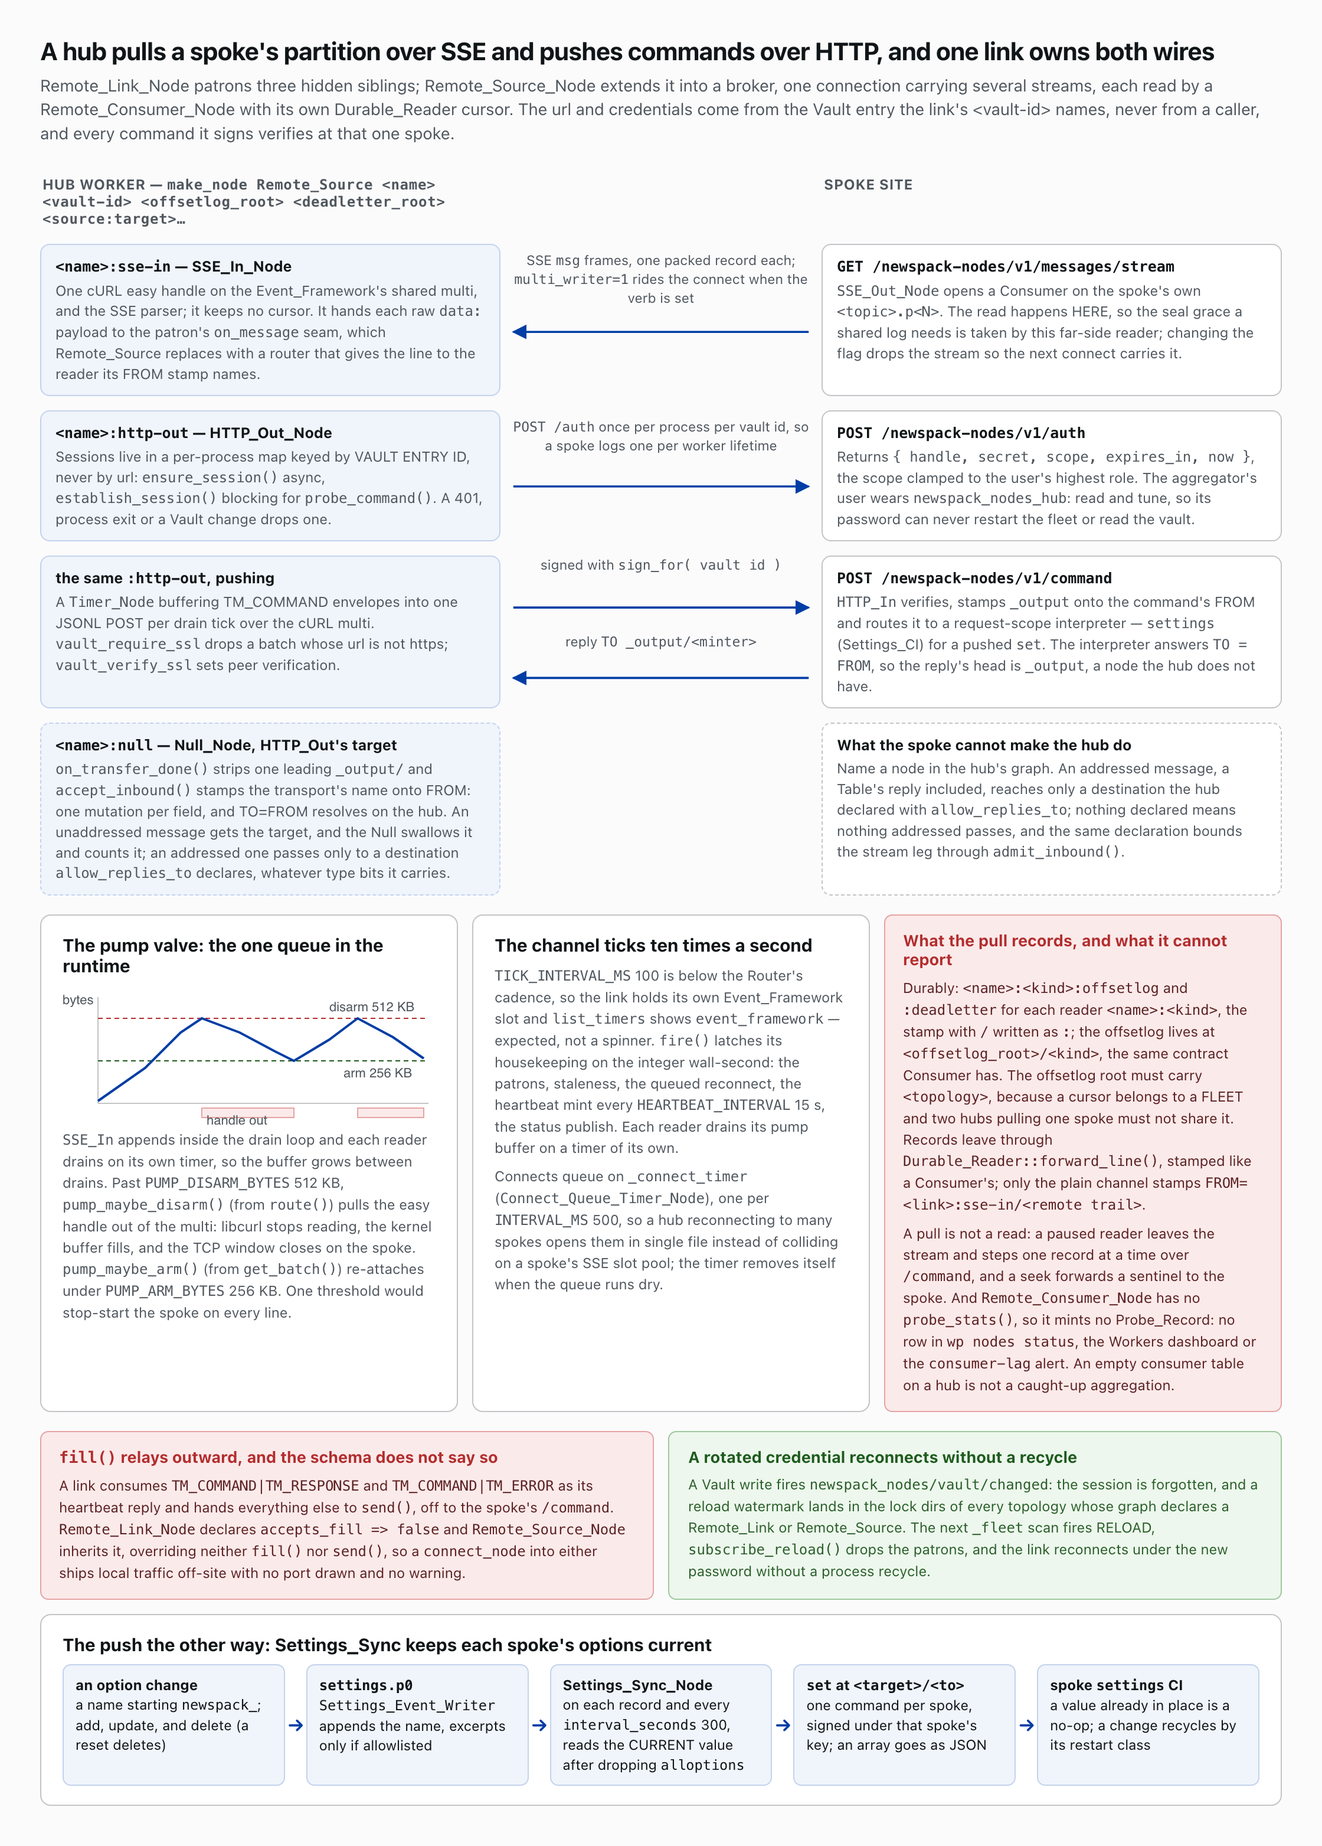
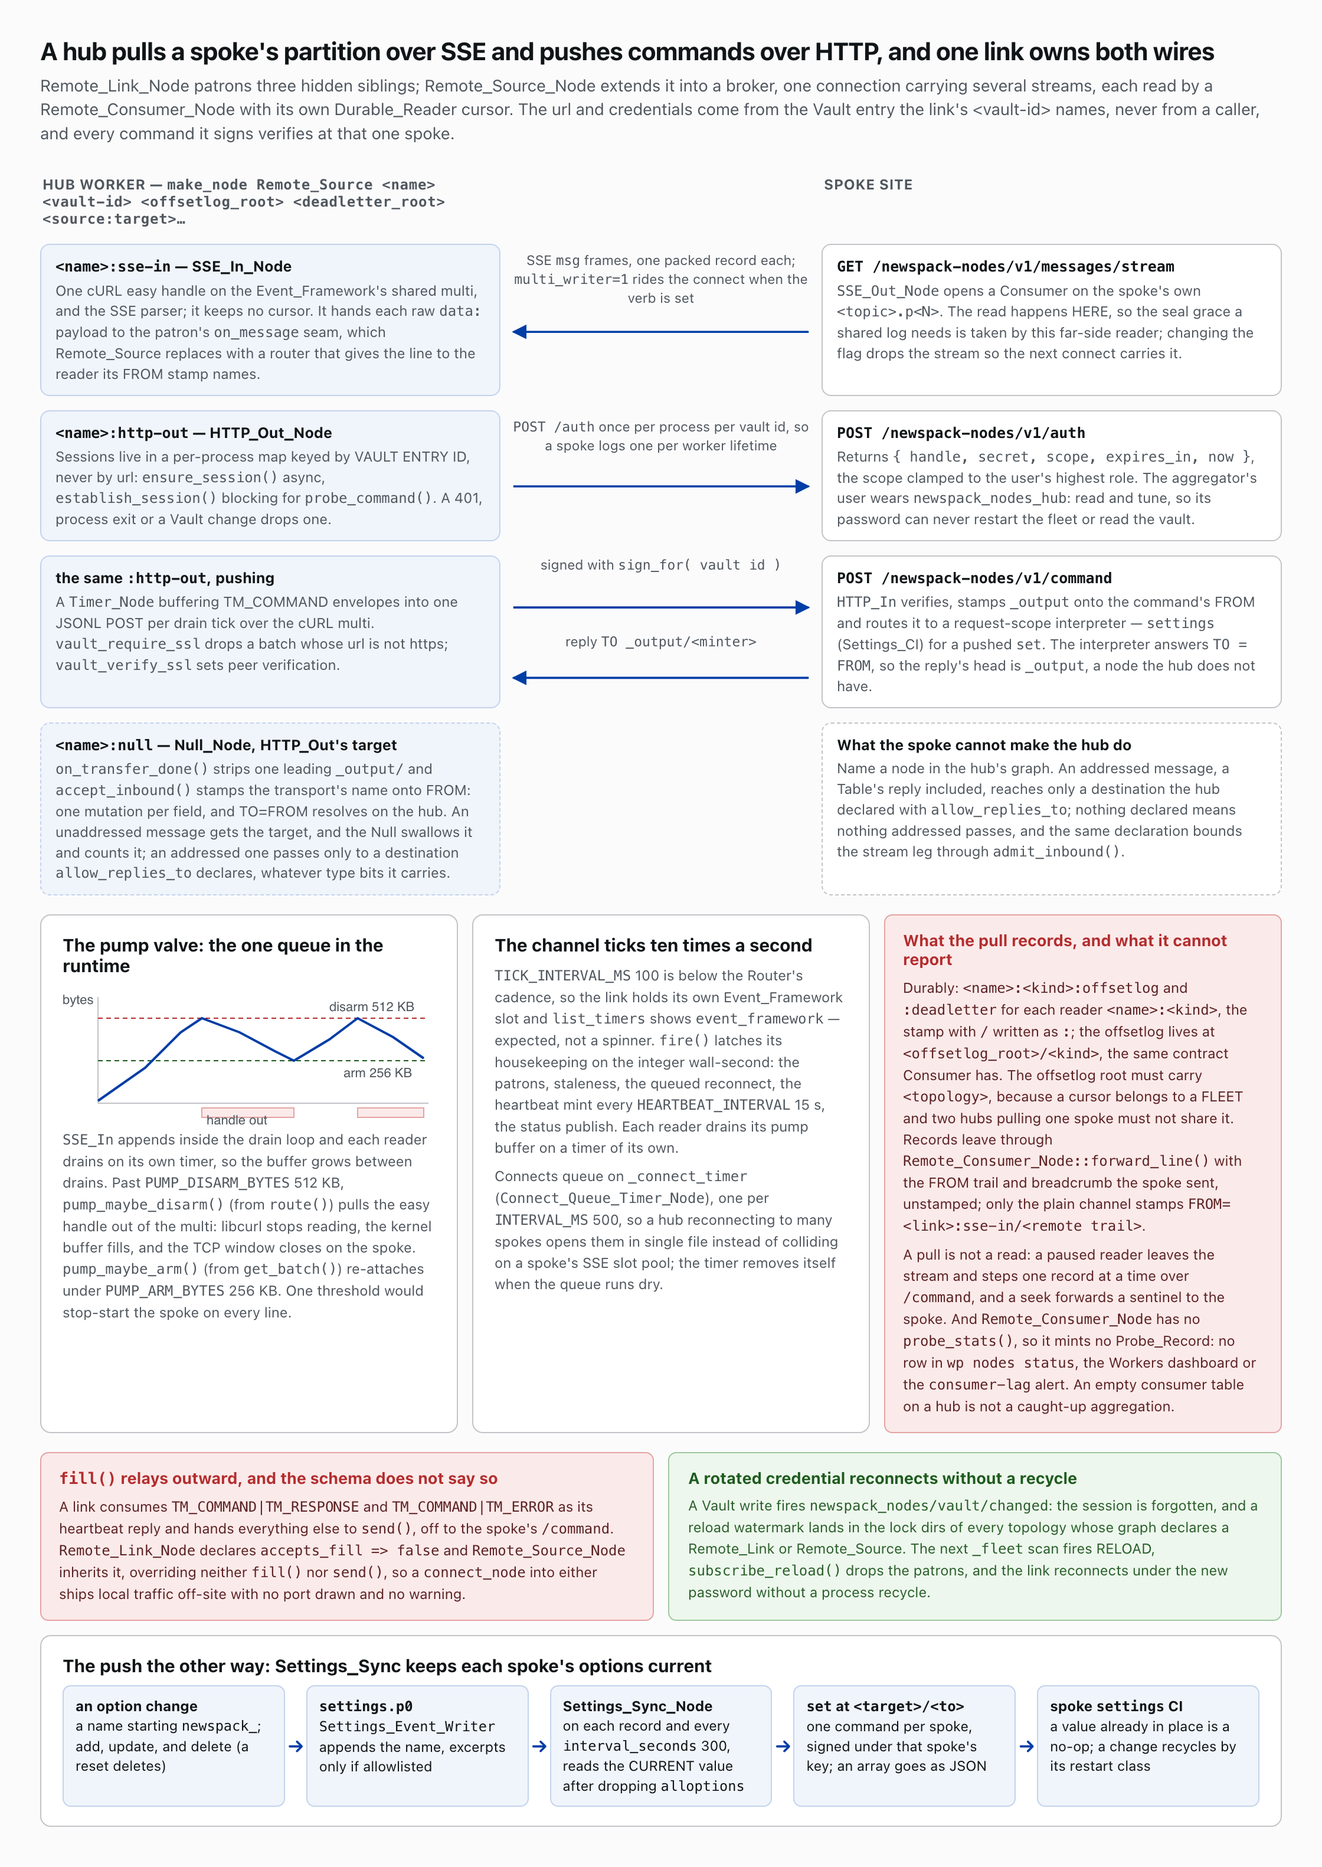
fix(remote): relay a spoke's record with the FROM it sent
The pre-broker relay forwarded a line with the spoke's FROM trail and
crumb untouched. Remote_Consumer re-stamped its own name instead, which
grew every relayed record by the reader's name; a record near PIPE_BUF
on the spoke then dropped as oversize on the hub. The reader passes FROM
through again.

diff --git a/docs/img/ag-hub-spoke.html b/docs/img/ag-hub-spoke.html
@@ -62,7 +62,7 @@
   </div>
   <div class="callout">
     <h4>What the pull records, and what it cannot report</h4>
-    <p>Durably: <span class="mono">&lt;name&gt;:&lt;kind&gt;:offsetlog</span> and <span class="mono">:deadletter</span> for each reader <span class="mono">&lt;name&gt;:&lt;kind&gt;</span>, the stamp with <span class="mono">/</span> written as <span class="mono">:</span>; the offsetlog lives at <span class="mono">&lt;offsetlog_root&gt;/&lt;kind&gt;</span>, the same contract Consumer has. The offsetlog root must carry <span class="mono">&lt;topology&gt;</span>, because a cursor belongs to a FLEET and two hubs pulling one spoke must not share it. Records leave through <span class="mono">Durable_Reader::forward_line()</span>, stamped like a Consumer's; only the plain channel stamps <span class="mono">FROM=&lt;link&gt;:sse-in/&lt;remote trail&gt;</span>.</p>
+    <p>Durably: <span class="mono">&lt;name&gt;:&lt;kind&gt;:offsetlog</span> and <span class="mono">:deadletter</span> for each reader <span class="mono">&lt;name&gt;:&lt;kind&gt;</span>, the stamp with <span class="mono">/</span> written as <span class="mono">:</span>; the offsetlog lives at <span class="mono">&lt;offsetlog_root&gt;/&lt;kind&gt;</span>, the same contract Consumer has. The offsetlog root must carry <span class="mono">&lt;topology&gt;</span>, because a cursor belongs to a FLEET and two hubs pulling one spoke must not share it. Records leave through <span class="mono">Remote_Consumer_Node::forward_line()</span> with the FROM trail and breadcrumb the spoke sent, unstamped; only the plain channel stamps <span class="mono">FROM=&lt;link&gt;:sse-in/&lt;remote trail&gt;</span>.</p>
     <p>A pull is not a read: a paused reader leaves the stream and steps one record at a time over <span class="mono">/command</span>, and a seek forwards a sentinel to the spoke. And <span class="mono">Remote_Consumer_Node</span> has no <span class="mono">probe_stats()</span>, so it mints no Probe_Record: no row in <span class="mono">wp nodes status</span>, the Workers dashboard or the <span class="mono">consumer-lag</span> alert. An empty consumer table on a hub is not a caught-up aggregation.</p>
   </div>
 </div>

diff --git a/docs/img/d07.html b/docs/img/d07.html
@@ -86,7 +86,7 @@
         <div class="lab" style="margin-left:200px;width:192px"><span class="n">4</span>one record per event.</div>
       </div>
       <div class="arrow"><svg width="1052" height="16"><path d="M951 8 L760 8" stroke="#003DA5" stroke-width="1.8" marker-end="url(#ar)"/><path d="M754 8 L408 8" stroke="#003DA5" stroke-width="1.8" marker-end="url(#ar)"/><path d="M402 8 L232 8" stroke="#003DA5" stroke-width="1.8" marker-end="url(#ar)"/></svg></div>
-      <div class="box" style="margin-left:60px;width:520px;margin-top:6px">Each reader prepends its own name to the record's FROM and sends it to its pair's target, <span class="mono">firehose.p0</span> to <span class="mono">remote-job-rewrite</span> and <span class="mono">sources/php</span> to <span class="mono">php-errors:partition</span>. It checkpoints the record's ID to its own offsetlog and resumes from it on every reconnect; a record that will not parse is quarantined at that position, in its own dead-letter partition.</div>
+      <div class="box" style="margin-left:60px;width:520px;margin-top:6px">Each reader keeps the record's FROM as the spoke sent it and sends it to its pair's target, <span class="mono">firehose.p0</span> to <span class="mono">remote-job-rewrite</span> and <span class="mono">sources/php</span> to <span class="mono">php-errors:partition</span>. It checkpoints the record's ID to its own offsetlog and resumes from it on every reconnect; a record that will not parse is quarantined at that position, in its own dead-letter partition.</div>
     </div>
 
     <div class="msg">

diff --git a/tests/unit/RemoteSourceNodeTest.php b/tests/unit/RemoteSourceNodeTest.php
@@ -811,35 +811,19 @@ class RemoteSourceNodeTest extends TestCase {
 		$this->assertSame( [ 'firehose.p0' ], \array_keys( $this->readers( $node ) ) );
 	}
 
-	public function test_a_relayed_line_carries_the_reader_before_the_spoke_trail(): void {
+	/**
+	 * A relay forwards: the record leaves with the FROM trail and the ID
+	 * crumb the spoke sent, byte for byte.
+	 */
+	public function test_a_relayed_line_keeps_the_spoke_trail_and_crumb(): void {
 		$this->seed_vault( 'aspen', [ 'url' => 'https://aspen.example', 'auth_username' => 'u', 'auth_password' => 'p' ] );
-		$php = new Capture_Sink_Node();
-		$php->name( 'php-errors' );
-		$this->make_remote( 'remote-aspen', $this->remote_args( 'remote-aspen', 'aspen', 'sources/php:php-errors' ) );
-		Core::node( 'remote-aspen:sse-in' )->process_sse_chunk( self::sse_frame( 'msg', [ Message::TYPE => Message::TM_BYTESTREAM, Message::FROM => 'sources/php', Message::ID => '44120:96:58', Message::VALUE => "PHP Notice: 2290\n" ] ) );
-
-		Core::node( 'remote-aspen:sources:php' )->poll();
-
-		$this->assertSame( 'remote-aspen:sources:php/sources/php', $php->captured[0][ Message::FROM ] );
-		$this->assertSame( '44120:96:58', $php->captured[0][ Message::ID ], 'the crumb stays the spoke\'s' );
-	}
-
-	public function test_a_trail_past_max_from_size_is_dropped_and_passed(): void {
-		$this->seed_vault( 'aspen', [ 'url' => 'https://aspen.example', 'auth_username' => 'u', 'auth_password' => 'p' ] );
-		$errors = [];
-		Core::set_stderr_handler( static function ( string $text ) use ( &$errors ): void {
-			$errors[] = $text;
-		} );
 		[ , $child, $sink ] = $this->make_remote();
-		$long = 'firehose.p0/' . \str_repeat( 'hop-7/', 200 );
-		Core::node( 'remote-aspen:sse-in' )->process_sse_chunk( self::sse_frame( 'msg', [ Message::TYPE => Message::TM_STRUCT, Message::FROM => $long, Message::ID => '6:300:45', Message::VALUE => [ 'p' => 3 ] ] ) );
+		Core::node( 'remote-aspen:sse-in' )->process_sse_chunk( self::sse_frame( 'msg', [ Message::TYPE => Message::TM_STRUCT, Message::FROM => 'firehose.p0/okapi-7713', Message::ID => '44120:96:58', Message::VALUE => [ 'p' => 2290 ] ] ) );
 
 		$child->poll();
 
-		$this->assertSame( [], $sink->captured );
-		$this->assertSame( [ 'segment' => 6, 'offset' => 345 ], $child->connect_position(), 'the refusal is consumed like a forward' );
-		$this->assertStringContainsString( 'path exceeded ' . Node::MAX_FROM_SIZE . ' bytes', \implode( '', $errors ) );
-		$this->assertSame( 0, $this->count_log_records( $this->read_private( $child, 'deadletter_dir' ) ), 'an over-long trail is not poison' );
+		$this->assertSame( 'firehose.p0/okapi-7713', $sink->captured[0][ Message::FROM ] );
+		$this->assertSame( '44120:96:58', $sink->captured[0][ Message::ID ], 'the crumb stays the spoke\'s' );
 	}
 
 	public function test_a_replay_dropping_a_pair_retracts_only_its_children(): void {

diff --git a/includes/class-remote-consumer-node.php b/includes/class-remote-consumer-node.php
@@ -447,10 +447,10 @@ class Remote_Consumer_Node extends Timer_Node implements Position_Reporter {
 	}
 
 	/**
-	 * Emit seam override: forward one raw line, prepending this reader's name to the spoke's
-	 * FROM trail, so a hub log tells its spokes apart; the ID crumb stays the spoke's, which is
-	 * what the Aggregator reads a record's origin from. drain_line() has already pinned the
-	 * cursor from that crumb.
+	 * Emit seam override: forward one raw line with the FROM trail and the ID crumb the spoke
+	 * sent, byte for byte, because a relay is a forwarder and stamps nothing; the crumb is what
+	 * the Aggregator reads a record's origin from. drain_line() has already pinned the cursor
+	 * from that crumb.
 	 *
 	 * `admit()` routes the line by the pair's target: a firehose record carries no TO, so an
 	 * addressed line is refused. A refused line was still READ, so the cursor advances past it
@@ -460,8 +460,8 @@ class Remote_Consumer_Node extends Timer_Node implements Position_Reporter {
 	 * over undecoded is decoded here. Each forward, and each clean stop, counts, and the
 	 * largest line is tracked, as the trait's own forward does.
 	 *
-	 * Six dispositions, that refusal and an over-long trail the first two. A null sink FAILS
-	 * LOUD, because a relay with nowhere to relay is a topology error. An unparseable line
+	 * Five dispositions, that refusal the first. A null sink FAILS LOUD, because a relay
+	 * with nowhere to relay is a topology error. An unparseable line
 	 * carries no crumb, so it is quarantined where the cursor stands — the next unread position,
 	 * the one place it can be put — and moves the cursor by nothing. A downstream throw
 	 * dead-letters the message ON SIGHT and marks the record disposed, so the drain loop
@@ -489,10 +489,6 @@ class Remote_Consumer_Node extends Timer_Node implements Position_Reporter {
 			return;
 		}
 		if ( ! $this->admit( $message ) ) {
-			return;
-		}
-		// The hop convention: stamp_message() reports its own refusal.
-		if ( ! $this->stamp_message( $message, $this->name ) ) {
 			return;
 		}
 		if ( $this->crawl ) {

diff --git a/tests/unit/RemoteConsumerNodeTest.php b/tests/unit/RemoteConsumerNodeTest.php
@@ -1656,7 +1656,7 @@ class RemoteConsumerNodeTest extends TestCase {
 	public function test_stream_data_relayed_downstream_not_to_http_out(): void {
 		// Stream data flows via the reader's buffer → forward_line → downstream; it never
 		// touches the outbound HTTP_Out path (that carries commands + the heartbeat only).
-		// The reader prepends its own name to the spoke's trail.
+		// The reader forwards the spoke's trail unchanged.
 		$this->seed_vault( 'aspen', [ 'url' => 'https://aspen.example', 'auth_username' => 'u', 'auth_password' => 'p' ] );
 		$this->stub_sse_connect();
 		[ , $node, $spy ] = $this->make_remote_spy();
@@ -1673,7 +1673,7 @@ class RemoteConsumerNodeTest extends TestCase {
 		$node->poll();
 
 		$this->assertCount( 1, $spy->captured, 'stream data is relayed downstream' );
-		$this->assertSame( 'remote-aspen:firehose.p0/firehose.p0/job-worker.p0', $spy->captured[0][ Message::FROM ] );
+		$this->assertSame( 'firehose.p0/job-worker.p0', $spy->captured[0][ Message::FROM ] );
 		$this->assertCount( 0, $this->read_private( $http, 'batch' ), 'stream data must NOT be misrouted to HTTP_Out' );
 	}
 
@@ -2018,7 +2018,7 @@ class RemoteConsumerNodeTest extends TestCase {
 		$node->fill( self::step_reply( 'remote-aspen:firehose.p0', self::stepped_record( '31:4404:61', 'stepped-8820' ), 31, 4465 ) );
 
 		$this->assertSame( [ 'stepped-8820' ], \array_column( $sink->captured, Message::VALUE ) );
-		$this->assertSame( 'remote-aspen:firehose.p0/firehose.p0', $sink->captured[0][ Message::FROM ], 'a step relays through the same hop stamp' );
+		$this->assertSame( 'firehose.p0', $sink->captured[0][ Message::FROM ], 'a step relays the spoke\'s trail unchanged' );
 		$this->assertSame( [ 'segment' => 31, 'offset' => 4465 ], $node->connect_position() );
 		$this->assertSame( 'PAUSED', $node->get_state( 'POLLING' ), 'a step stays paused' );
 		$this->assertSame( 0, $this->read_private( $node, 'steps_owed' ) );

diff --git a/.claude/skills/nodes-review/SKILL.md b/.claude/skills/nodes-review/SKILL.md
@@ -40,7 +40,7 @@ Push all of it to first use (first `fill()`, first `read_at()`). Derived scalar 
 Don't conflate them:
 
 - **Mint FROM (set FROM outright, normally to the node's own name).** A node that *mints* a brand-new message sets FROM to its own name: `Timer_Node::fire()`, `Node::notify()`, `Shell_Node` (through `reply_from()`), `Tail_Node`, which assigns FROM directly at its I/O boundary rather than through the helper, and every node minting a reply — the interpreter's responses, `Table_Node`, `Job_Worker_Node`'s `GET_HEALTH`. `Durable_Reader::commit_offsetlog_frame()` stamps the reader's own name on every offsetlog checkpoint, in Consumer and Remote_Consumer alike. Four mints stamp a name that is not the node's own. `Probe_Node`'s sweep stamps `{worker-id}/{probe-name}`, such as `job-worker.p2/jobstats`, so a reader charts each worker's stream apart; a probe always runs bound, because `arguments()` refuses one built outside a worker (ADR-22, "A worker in a FROM trail has one reader"); `Router_Node::send_error()` puts the unreachable destination in FROM and the sender in TO, so the bounce reads as coming from the address that failed; `Stdin_Node` stamps the reserved `Node_Names::STDIN`, because a session leaves its reader unnamed and `stamp_message()` refuses an empty name — "correcting" it to `$this->name` yields a node that stamps nothing; `Remote_Source_Node::request_read()` mints a step's `read_message` with FROM set to the asking reader's name, `<broker>:<kind>`, so the spoke's reply comes back TO that reader rather than to the broker. None are bugs; don't flag them.
-- **Breadcrumb-prepend `stamp_message()` (prepend own name to an existing FROM trail).** It belongs at a boundary where a message ENTERS this graph from outside: `Durable_Reader::forward_line()` (Consumer), `Remote_Consumer_Node::forward_line()` (a broker's reader), `HTTP_In_Node`, `HTTP_Out_Node::accept_inbound()` on the reply leg, and `Remote_Link_Node::deliver_downstream()`. A node minting a fresh message into an empty FROM may also reach for it — `Value_Timeout_Node`, `Probe_To_Graphite_Node` and `Consumer_Node::drain()`'s terminal TM_EOF do — which is minting, not breadcrumbing. `stamp_message()` on a Tee, Tap, Hook, Callback or any application forwarder is almost certainly a bug: it pollutes the trail and breaks reverse-direction routing. Pass-through forwarders relay the message untouched.
+- **Breadcrumb-prepend `stamp_message()` (prepend own name to an existing FROM trail).** It belongs at a boundary where a message ENTERS this graph from outside: `Durable_Reader::forward_line()` (Consumer), `HTTP_In_Node`, `HTTP_Out_Node::accept_inbound()` on the reply leg, and `Remote_Link_Node::deliver_downstream()`. A node minting a fresh message into an empty FROM may also reach for it — `Value_Timeout_Node`, `Probe_To_Graphite_Node` and `Consumer_Node::drain()`'s terminal TM_EOF do — which is minting, not breadcrumbing. `stamp_message()` on a Tee, Tap, Hook, Callback or any application forwarder is almost certainly a bug: it pollutes the trail and breaks reverse-direction routing. Pass-through forwarders relay the message untouched, and so does a broker's reader: `Remote_Consumer_Node::forward_line()` keeps the spoke's FROM trail and ID breadcrumb byte for byte, rewriting TO alone.
 
 `stamp_message()` refuses two ways and returns false — an empty `$name`, which would compose a `/from` path Router cannot resolve, and a trail past `Node::MAX_FROM_SIZE` (1024), which means a cycle is growing it. Both guards are essential; the CALLER must drop the message on a false.
 

diff --git a/docs/architecture-guide.md b/docs/architecture-guide.md
@@ -624,7 +624,7 @@ Forward direction uses `TO=$this->target` (the path `connect_node` put there). R
 
 Path-based routing via `_router` does the rest. Nodes don't track sockets or addresses; they stamp FROM at I/O boundaries on the way in, and reverse direction follows the trail back out.
 
-**FROM stamping at I/O boundaries only**: the substrate's source nodes — **Tail** (`forward_line` sets FROM directly, honoring `stamp_override`) and **Consumer** (`stamp_message`, using `stamp_override` when set — the worker IPC input Consumer stamps `_repl`) — stamp FROM as messages enter the graph. The wire boundaries stamp too: `HTTP_In_Node`, `HTTP_Out_Node::accept_inbound()` and `Remote_Link_Node::deliver_downstream()`, which stamps the SSE_In sibling's name rather than the link's, so a record off a spoke reads `FROM=<link>:sse-in/<remote trail>`. That last one leaves TO alone while the link has no `target`, because an attached worker's reply carries its own TO=FROM breadcrumb and overwriting it strands the reply, and it drops — rate-limited — both an unparseable frame and one whose stamp would pass `MAX_FROM_SIZE`. It is the channel path only: `Remote_Source_Node` replaces the `on_message` seam with its routing closure, and each `Remote_Consumer_Node` stamps its own name onto the FROM of every line it relays, through `Node::stamp_message()`, so a line off a spoke reads `FROM=<broker>:<kind>/<remote trail>`. Internal nodes (Tee, Hook, and any application Node subclass) do NOT stamp. A message a tail hands to a tee, and the tee to request-builder, carries `FROM=tail`, NOT `tee/tail`. There is no `Job` or `Connector` node class in this runtime — `Job_Worker_Node` is a handler dispatcher, not [Tachikoma](https://github.com/datapoke/tachikoma)'s forked-process Job — so don't look for their stamping behavior either.
+**FROM stamping at I/O boundaries only**: the substrate's source nodes — **Tail** (`forward_line` sets FROM directly, honoring `stamp_override`) and **Consumer** (`stamp_message`, using `stamp_override` when set — the worker IPC input Consumer stamps `_repl`) — stamp FROM as messages enter the graph. The wire boundaries stamp too: `HTTP_In_Node`, `HTTP_Out_Node::accept_inbound()` and `Remote_Link_Node::deliver_downstream()`, which stamps the SSE_In sibling's name rather than the link's, so a record off a spoke reads `FROM=<link>:sse-in/<remote trail>`. That last one leaves TO alone while the link has no `target`, because an attached worker's reply carries its own TO=FROM breadcrumb and overwriting it strands the reply, and it drops — rate-limited — both an unparseable frame and one whose stamp would pass `MAX_FROM_SIZE`. It is the channel path only: `Remote_Source_Node` replaces the `on_message` seam with its routing closure, and each `Remote_Consumer_Node` is a relay that stamps nothing: it forwards every line with the FROM trail and the ID breadcrumb the spoke sent, so a line off a spoke reads `FROM=<remote trail>`, naming no spoke. Internal nodes (Tee, Hook, and any application Node subclass) do NOT stamp. A message a tail hands to a tee, and the tee to request-builder, carries `FROM=tail`, NOT `tee/tail`. There is no `Job` or `Connector` node class in this runtime — `Job_Worker_Node` is a handler dispatcher, not [Tachikoma](https://github.com/datapoke/tachikoma)'s forked-process Job — so don't look for their stamping behavior either.
 
 ## Event_Framework
 

diff --git a/CHANGELOG.md b/CHANGELOG.md
@@ -10,6 +10,7 @@ and this project adheres to [Semantic Versioning](https://semver.org/spec/v2.0.0
 ### Changed
 
 - **A broker's stamp refusals no longer name the stamp.** `refusing a stamp outside the stream name grammar` and `refusing a stamp that names a slot the broker keeps` log the refusal alone.
+- **A `Remote_Consumer` relays each record with the spoke's FROM trail unchanged.** It no longer prepends its own name, so a hub log's line reads `firehose.p0/job-worker.p0` where it read `spokes:<id>:firehose.p0/firehose.p0/job-worker.p0`, and a record the spoke fit under PIPE_BUF no longer outgrows the hub Partition's 4096-byte cap by the reader's name and is dropped as `oversize: 4103 > 4096`. The ID breadcrumb was already the spoke's. A hub log no longer names the spoke a relayed line came from.
 
 ## [2.101.0] - 2026-10-08
 
